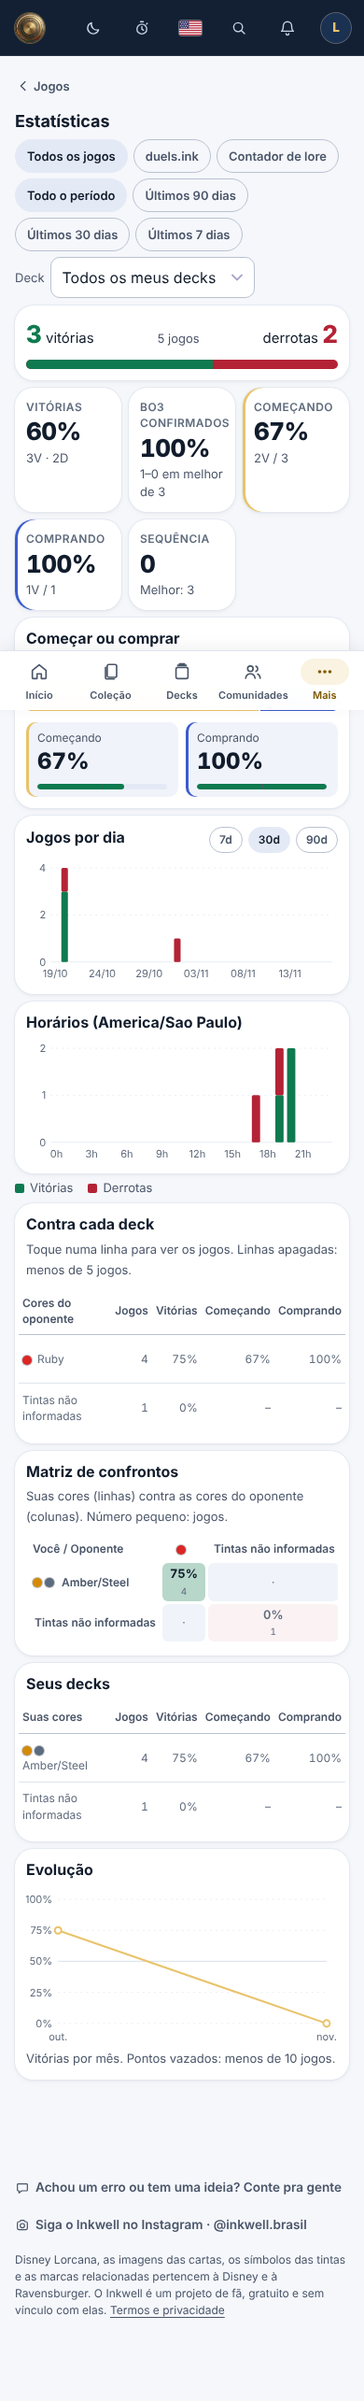
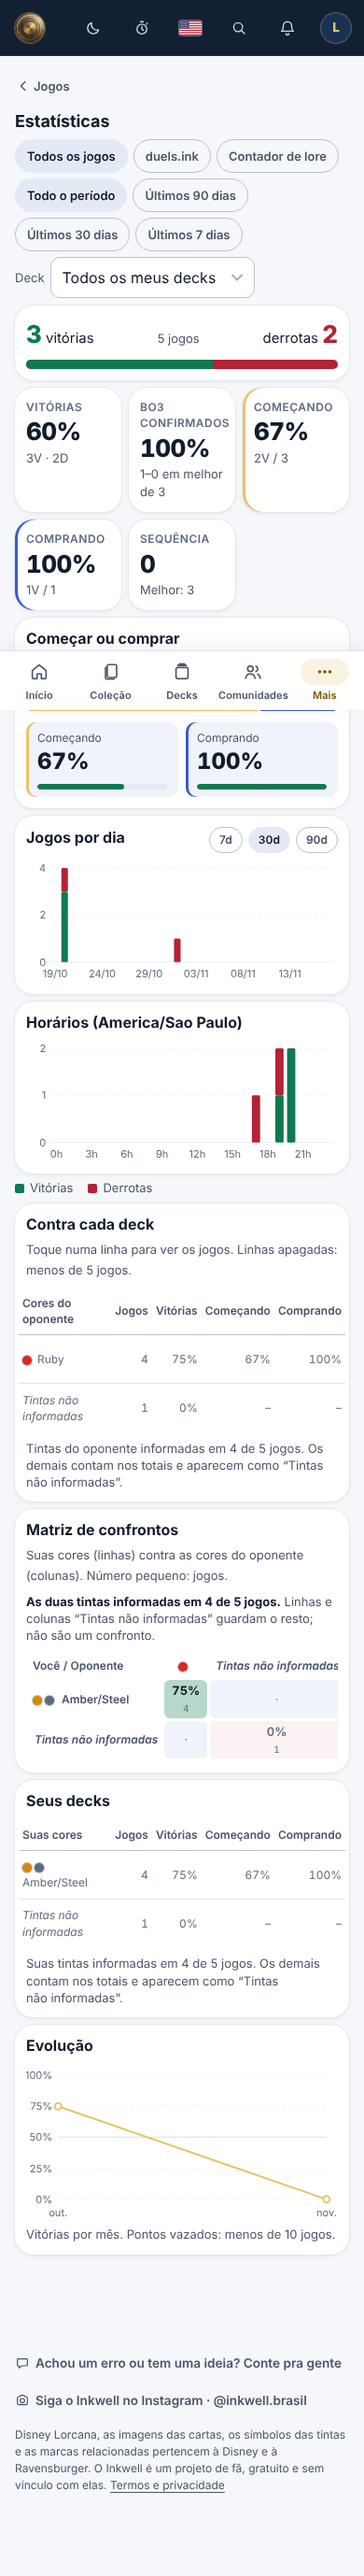
fix(jogos): cobertura explícita nas análises por tintas
Revisão do Conselho (#243): jogos sem tintas continuam em todos os totais, mas cada
análise por combinação de tintas diz quanto cobre:
- Contra cada deck: "Tintas do oponente informadas em X de Y jogos";
- Matriz: "As duas tintas informadas em X de Y jogos" e que as linhas/colunas
  "Tintas não informadas" não são um confronto;
- Seus decks: "Suas tintas informadas em X de Y jogos".
A linha "Tintas não informadas" vem por último, em itálico, separada.

Teste ampliado em coach.spec.mjs; captura refeita.

Claude-Session: https://claude.ai/code/session_01FVbTkUiCCiwGnRgKq7JAgu

diff --git a/site/coach/index.html b/site/coach/index.html
@@ -72,7 +72,9 @@ window.INKWELL_NO_STORE_MSG = "Your games appear here after you sign in.";
     "Gained {v} lore": "Ganhou {v} de lore", "Lost {v} lore": "Perdeu {v} de lore", "Moved {c} to {t}": "Moveu {c} para {t}", "Note: {t}": "Nota: {t}",
     // review
     "All games": "Todos os jogos", "Format": "Formato", "Sealed": "Selado", "Both formats": "Os dois formatos", "Win": "Vitória", "Loss": "Derrota", "Played by {name}": "Jogado por {name}",
-    "Your deck": "Seu deck", "Unknown": "Desconhecido", "Inks not given": "Tintas não informadas", "vs": "vs",
+    "Your deck": "Seu deck", "Unknown": "Desconhecido", "Inks not given": "Tintas não informadas", "Opponent's inks given in {a} of {b} games.": "Tintas do oponente informadas em {a} de {b} jogos.", "Your inks given in {a} of {b} games.": "Suas tintas informadas em {a} de {b} jogos.",
+    "The rest count in the totals and show as “Inks not given”.": "Os demais contam nos totais e aparecem como “Tintas não informadas”.", "Both inks given in {a} of {b} games.": "As duas tintas informadas em {a} de {b} jogos.",
+    "Rows and columns “Inks not given” hold the rest; they are not a matchup.": "Linhas e colunas “Tintas não informadas” guardam o resto; não são um confronto.", "vs": "vs",
     "{n} turns": "{n} turnos", "Lore Counter game, under 2 minutes": "Jogo do Contador de lore, menos de 2 minutos",
     "Lore Counter game, about {m} minutes": "Jogo do Contador de lore, cerca de {m} minutos",
     "Lore Counter game, final lore and result only": "Jogo do Contador de lore, só lore final e resultado",
@@ -847,6 +849,8 @@ window.INKWELL_CLOUD = (() => {
 
 /* account, view, coaches */
 .acct { display: grid; grid-template-columns: minmax(0, 1fr); gap: var(--sp-2); }
+tr.noinks > td:first-child, tr.noinks > th, th.noinks { font-style: italic; color: var(--text-2); }
+table.mt tr.noinks > td { border-top: 1px dashed var(--line-strong); }
 /* Pacote 2: the games and "Novo jogo" come first; duels.ink and coaches are settings, closed, at the end */
 .jg-actions { display: grid; grid-template-columns: minmax(0, 1fr) auto; gap: var(--sp-2); }
 .jg-actions[hidden] { display: none; }
@@ -1614,6 +1618,13 @@ const CARD_INDEX = {"generated_at":"2026-10-19T12:50:22Z","cards":[["D100-18","M
   const noInks = (k) => !k || k === "Unknown" || k === "Physical game";
   const deckLabel = (k) => (noInks(k) ? Tx("Inks not given") : k);
   const dotsOf = (k) => (noInks(k) ? "" : inkDots(k));
+  // Conselho (#243): games without inks stay in every total, but an analysis by ink combination says how much it covers,
+  // and the "Tintas não informadas" line comes last, set apart, so it never reads as one more archetype.
+  const unknownLast = (list) => [...list.filter((x) => !noInks(x.k)), ...list.filter((x) => noInks(x.k))];
+  const coverage = (rows, side, id) => {
+    const known = rows.filter((r) => side === "opp" ? !noInks(r.s.opp_inks || r.s.opp_deck) : !noInks(inksKey(r.s.my_inks) || inksKey(r.s.my_deck))).length;
+    return `<p class="small muted cov" data-testid="${id}" style="margin:var(--sp-2) 0 0">${esc(Tx(side === "opp" ? "Opponent's inks given in {a} of {b} games." : "Your inks given in {a} of {b} games.", { a: known, b: rows.length }))}${known < rows.length ? " " + esc(Tx("The rest count in the totals and show as “Inks not given”.")) : ""}</p>`;
+  };
   // duels.ink best-of-3 matches: only games linked by their match id (a match.json from duels.ink, linkMatch).
   // Nothing is guessed from queues, numbers or times; a match counts once it has a winner (2 games won).
   function matchesOf(rows) {
@@ -1679,8 +1690,9 @@ const CARD_INDEX = {"generated_at":"2026-10-19T12:50:22Z","cards":[["D100-18","M
   }
   function matrixHtml(rows) {
     const mineK = (r) => inksKey(r.s.my_inks) || inksKey(r.s.my_deck) || NO_INKS, oppK = (r) => r.s.opp_inks || r.s.opp_deck || NO_INKS;
-    const mine = groupBy(rows, mineK).slice(0, 6), opp = groupBy(rows, oppK).slice(0, 8);
+    const mine = unknownLast(groupBy(rows, mineK).slice(0, 6)), opp = unknownLast(groupBy(rows, oppK).slice(0, 8));
     if (!mine.length || opp.length < 2) return "";
+    const both = rows.filter((r) => !noInks(mineK(r)) && !noInks(oppK(r))).length;
     const cell = new Map();
     for (const r of rows) { const a = mineK(r); const k = `${a}|${oppK(r)}`; const c = cell.get(k) || { n: 0, w: 0 }; c.n += 1; c.w += r.s.result === "win" ? 1 : 0; cell.set(k, c); }
     const td = (a, b) => {
@@ -1690,8 +1702,9 @@ const CARD_INDEX = {"generated_at":"2026-10-19T12:50:22Z","cards":[["D100-18","M
       return `<td class="${c.n < 3 ? "few" : ""}" style="background:color-mix(in srgb, ${tone} ${c.n < 3 ? 6 : strength}%, transparent)" title="${esc(`${deckLabel(a)} vs ${deckLabel(b)}`)}: ${hint(c.n, c.w)}"><b>${Math.round(100 * wr)}%</b><small>${c.n}</small></td>`;
     };
     return `<div class="sv-card"><h3>${Tx("Matchup matrix")}</h3><span class="muted small">${Tx("Your colors (rows) against the opponent's colors (columns). Small number: games.")}</span>
-      <div class="mx-wrap"><table class="mx"><tr><th>${Tx("You / Opp")}</th>${opp.map((o) => `<th>${noInks(o.k) ? `<span class="nm">${esc(Tx("Inks not given"))}</span>` : `${inkDots(o.k)}<span class="sr">${esc(o.k)}</span>`}</th>`).join("")}</tr>
-      ${mine.map((m) => `<tr><th>${dotsOf(m.k)}<span class="nm">${esc(deckLabel(m.k))}</span></th>${opp.map((o) => td(m.k, o.k)).join("")}</tr>`).join("")}</table></div></div>`;
+      <p class="small cov" data-testid="cov-matrix" style="margin:var(--sp-2) 0 0"><b>${esc(Tx("Both inks given in {a} of {b} games.", { a: both, b: rows.length }))}</b>${both < rows.length ? ` <span class="muted">${esc(Tx("Rows and columns “Inks not given” hold the rest; they are not a matchup."))}</span>` : ""}</p>
+      <div class="mx-wrap"><table class="mx"><tr><th>${Tx("You / Opp")}</th>${opp.map((o) => `<th${noInks(o.k) ? ' class="noinks"' : ""}>${noInks(o.k) ? `<span class="nm">${esc(Tx("Inks not given"))}</span>` : `${inkDots(o.k)}<span class="sr">${esc(o.k)}</span>`}</th>`).join("")}</tr>
+      ${mine.map((m) => `<tr${noInks(m.k) ? ' class="noinks"' : ""}><th>${dotsOf(m.k)}<span class="nm">${esc(deckLabel(m.k))}</span></th>${opp.map((o) => td(m.k, o.k)).join("")}</tr>`).join("")}</table></div></div>`;
   }
   // Deck versions: each distinct list of the chosen deck, oldest = version 1.
   function versionsOf(rows) {
@@ -1749,7 +1762,7 @@ const CARD_INDEX = {"generated_at":"2026-10-19T12:50:22Z","cards":[["D100-18","M
     if (sv.version !== "all" && !vs.some((v) => v.k === sv.version)) sv.version = "all";
     const rows = deckRows.filter((r) => sv.version === "all" || r.s.list_key === sv.version);
     const T = tally(rows.map((r) => r.s)), M = matchesOf(rows), mw = M.filter((m) => m.result === "win").length, st = streaks(rows);
-    const mine = groupBy(rows, (r) => r.s.my_deck), opp = groupBy(rows, (r) => r.s.opp_deck);
+    const mine = unknownLast(groupBy(rows, (r) => r.s.my_deck)), opp = unknownLast(groupBy(rows, (r) => r.s.opp_deck));
     const cost = opp.filter((o) => o.t.n >= 8 && o.t.n - 2 * o.t.w > 0).sort((a, b) => (b.t.n - 2 * b.t.w) - (a.t.n - 2 * a.t.w)).slice(0, 3);
     // MMR: duels.ink keeps one per queue. The chosen queue, or the one with the most rated games.
     const rated = rows.filter((r) => r.s.mmr_before != null && r.s.mmr_delta != null);
@@ -1757,7 +1770,7 @@ const CARD_INDEX = {"generated_at":"2026-10-19T12:50:22Z","cards":[["D100-18","M
     const mmr = rated.filter((r) => (qOf(r.s) || "—") === mq).sort(byAt).map((r) => ({ at: r.at, v: r.s.mmr_before + r.s.mmr_delta }));
     const chip = (group, v, l) => `<button type="button" class="chipbtn" data-sv="${group}" data-v="${esc(v)}" aria-pressed="${String(sv[group]) === String(v)}">${esc(l)}</button>`;
     const sel = (id, label, cur, opts) => `<label class="small svsel">${label} <select id="${id}">${opts.map(([v, l]) => `<option value="${esc(v)}" ${v === cur ? "selected" : ""}>${esc(l)}</option>`).join("")}</select></label>`;
-    const row = (x, isOpp) => `<tr class="${x.t.n < 5 ? "few" : ""}" ${isOpp ? `data-opp="${esc(x.k)}" tabindex="0" aria-label="${esc(Tx("Show games against {deck}", { deck: deckLabel(x.k) }))}"` : ""}>
+    const row = (x, isOpp) => `<tr class="${x.t.n < 5 ? "few" : ""}${noInks(x.k) ? " noinks" : ""}" ${isOpp ? `data-opp="${esc(x.k)}" tabindex="0" aria-label="${esc(Tx("Show games against {deck}", { deck: deckLabel(x.k) }))}"` : ""}>
       <td>${dotsOf(x.k)}${esc(deckLabel(x.k))}</td><td class="n">${x.t.n}</td>
       <td class="n">${pct(x.t.w, x.t.n)}<span class="wbar" aria-hidden="true"><i style="width:${x.t.n ? (100 * x.t.w / x.t.n).toFixed(0) : 0}%"></i></span></td>
       <td class="n">${pct(x.t.fw, x.t.fn)} <span class="muted small">(${x.t.fn})</span></td><td class="n">${pct(x.t.dw, x.t.dn)} <span class="muted small">(${x.t.dn})</span></td></tr>`;
@@ -1806,9 +1819,9 @@ const CARD_INDEX = {"generated_at":"2026-10-19T12:50:22Z","cards":[["D100-18","M
       <div class="legend small muted sv-leg"><span><i style="background:var(--win)"></i>${Tx("Wins")}</span><span><i style="background:var(--loss)"></i>${Tx("Losses")}</span></div>
       ${cost.length ? `<div class="cost ccost"><b>${Tx("Matchups costing you the most")}</b> <span class="muted small">${Tx("(8+ games; games lost beyond an even split)")}</span><ul>${cost.map((o) => `<li>${esc(Tx("vs {deck}: {w}–{l}, {p} won, {d} games below even", { deck: o.k, w: o.t.w, l: o.t.n - o.t.w, p: pct(o.t.w, o.t.n), d: o.t.n - 2 * o.t.w }))}</li>`).join("")}</ul></div>` : ""}
       <div class="sv-card"><h3>${Tx("Against each deck")}</h3><span class="muted small">${Tx("Tap a row to see those games. Faded rows: under 5 games.")}</span>
-        <table class="mt">${head(Tx("Opponent's inks"))}${opp.map((x) => row(x, true)).join("")}</table></div>
+        <table class="mt">${head(Tx("Opponent's inks"))}${opp.map((x) => row(x, true)).join("")}</table>${coverage(rows, "opp", "cov-opp")}</div>
       ${matrixHtml(rows)}
-      ${sv.deck === "all" && mine.length > 1 ? `<div class="sv-card"><h3>${Tx("Your decks")}</h3><table class="mt">${head(Tx("Your inks"))}${mine.map((x) => row(x, false)).join("")}</table></div>` : ""}
+      ${sv.deck === "all" && mine.length > 1 ? `<div class="sv-card"><h3>${Tx("Your decks")}</h3><table class="mt">${head(Tx("Your inks"))}${mine.map((x) => row(x, false)).join("")}</table>${coverage(rows, "mine", "cov-mine")}</div>` : ""}
       ${versionsHtml(vs)}
       <div class="sv-card"><h3>${Tx("Trend")}</h3>${trendSvg(rows) || `<p class="muted small">${Tx("Needs games in at least two months.")}</p>`}</div>`}
     </div>`;

diff --git a/src/site/coach/coach.template.html b/src/site/coach/coach.template.html
@@ -69,7 +69,9 @@ window.INKWELL_NO_STORE_MSG = "Your games appear here after you sign in.";
     "Gained {v} lore": "Ganhou {v} de lore", "Lost {v} lore": "Perdeu {v} de lore", "Moved {c} to {t}": "Moveu {c} para {t}", "Note: {t}": "Nota: {t}",
     // review
     "All games": "Todos os jogos", "Format": "Formato", "Sealed": "Selado", "Both formats": "Os dois formatos", "Win": "Vitória", "Loss": "Derrota", "Played by {name}": "Jogado por {name}",
-    "Your deck": "Seu deck", "Unknown": "Desconhecido", "Inks not given": "Tintas não informadas", "vs": "vs",
+    "Your deck": "Seu deck", "Unknown": "Desconhecido", "Inks not given": "Tintas não informadas", "Opponent's inks given in {a} of {b} games.": "Tintas do oponente informadas em {a} de {b} jogos.", "Your inks given in {a} of {b} games.": "Suas tintas informadas em {a} de {b} jogos.",
+    "The rest count in the totals and show as “Inks not given”.": "Os demais contam nos totais e aparecem como “Tintas não informadas”.", "Both inks given in {a} of {b} games.": "As duas tintas informadas em {a} de {b} jogos.",
+    "Rows and columns “Inks not given” hold the rest; they are not a matchup.": "Linhas e colunas “Tintas não informadas” guardam o resto; não são um confronto.", "vs": "vs",
     "{n} turns": "{n} turnos", "Lore Counter game, under 2 minutes": "Jogo do Contador de lore, menos de 2 minutos",
     "Lore Counter game, about {m} minutes": "Jogo do Contador de lore, cerca de {m} minutos",
     "Lore Counter game, final lore and result only": "Jogo do Contador de lore, só lore final e resultado",
@@ -592,6 +594,8 @@ window.INKWELL_NO_STORE_MSG = "Your games appear here after you sign in.";
 
 /* account, view, coaches */
 .acct { display: grid; grid-template-columns: minmax(0, 1fr); gap: var(--sp-2); }
+tr.noinks > td:first-child, tr.noinks > th, th.noinks { font-style: italic; color: var(--text-2); }
+table.mt tr.noinks > td { border-top: 1px dashed var(--line-strong); }
 /* Pacote 2: the games and "Novo jogo" come first; duels.ink and coaches are settings, closed, at the end */
 .jg-actions { display: grid; grid-template-columns: minmax(0, 1fr) auto; gap: var(--sp-2); }
 .jg-actions[hidden] { display: none; }
@@ -1359,6 +1363,13 @@ const CARD_INDEX = /*@CARD_INDEX@*/;
   const noInks = (k) => !k || k === "Unknown" || k === "Physical game";
   const deckLabel = (k) => (noInks(k) ? Tx("Inks not given") : k);
   const dotsOf = (k) => (noInks(k) ? "" : inkDots(k));
+  // Conselho (#243): games without inks stay in every total, but an analysis by ink combination says how much it covers,
+  // and the "Tintas não informadas" line comes last, set apart, so it never reads as one more archetype.
+  const unknownLast = (list) => [...list.filter((x) => !noInks(x.k)), ...list.filter((x) => noInks(x.k))];
+  const coverage = (rows, side, id) => {
+    const known = rows.filter((r) => side === "opp" ? !noInks(r.s.opp_inks || r.s.opp_deck) : !noInks(inksKey(r.s.my_inks) || inksKey(r.s.my_deck))).length;
+    return `<p class="small muted cov" data-testid="${id}" style="margin:var(--sp-2) 0 0">${esc(Tx(side === "opp" ? "Opponent's inks given in {a} of {b} games." : "Your inks given in {a} of {b} games.", { a: known, b: rows.length }))}${known < rows.length ? " " + esc(Tx("The rest count in the totals and show as “Inks not given”.")) : ""}</p>`;
+  };
   // duels.ink best-of-3 matches: only games linked by their match id (a match.json from duels.ink, linkMatch).
   // Nothing is guessed from queues, numbers or times; a match counts once it has a winner (2 games won).
   function matchesOf(rows) {
@@ -1424,8 +1435,9 @@ const CARD_INDEX = /*@CARD_INDEX@*/;
   }
   function matrixHtml(rows) {
     const mineK = (r) => inksKey(r.s.my_inks) || inksKey(r.s.my_deck) || NO_INKS, oppK = (r) => r.s.opp_inks || r.s.opp_deck || NO_INKS;
-    const mine = groupBy(rows, mineK).slice(0, 6), opp = groupBy(rows, oppK).slice(0, 8);
+    const mine = unknownLast(groupBy(rows, mineK).slice(0, 6)), opp = unknownLast(groupBy(rows, oppK).slice(0, 8));
     if (!mine.length || opp.length < 2) return "";
+    const both = rows.filter((r) => !noInks(mineK(r)) && !noInks(oppK(r))).length;
     const cell = new Map();
     for (const r of rows) { const a = mineK(r); const k = `${a}|${oppK(r)}`; const c = cell.get(k) || { n: 0, w: 0 }; c.n += 1; c.w += r.s.result === "win" ? 1 : 0; cell.set(k, c); }
     const td = (a, b) => {
@@ -1435,8 +1447,9 @@ const CARD_INDEX = /*@CARD_INDEX@*/;
       return `<td class="${c.n < 3 ? "few" : ""}" style="background:color-mix(in srgb, ${tone} ${c.n < 3 ? 6 : strength}%, transparent)" title="${esc(`${deckLabel(a)} vs ${deckLabel(b)}`)}: ${hint(c.n, c.w)}"><b>${Math.round(100 * wr)}%</b><small>${c.n}</small></td>`;
     };
     return `<div class="sv-card"><h3>${Tx("Matchup matrix")}</h3><span class="muted small">${Tx("Your colors (rows) against the opponent's colors (columns). Small number: games.")}</span>
-      <div class="mx-wrap"><table class="mx"><tr><th>${Tx("You / Opp")}</th>${opp.map((o) => `<th>${noInks(o.k) ? `<span class="nm">${esc(Tx("Inks not given"))}</span>` : `${inkDots(o.k)}<span class="sr">${esc(o.k)}</span>`}</th>`).join("")}</tr>
-      ${mine.map((m) => `<tr><th>${dotsOf(m.k)}<span class="nm">${esc(deckLabel(m.k))}</span></th>${opp.map((o) => td(m.k, o.k)).join("")}</tr>`).join("")}</table></div></div>`;
+      <p class="small cov" data-testid="cov-matrix" style="margin:var(--sp-2) 0 0"><b>${esc(Tx("Both inks given in {a} of {b} games.", { a: both, b: rows.length }))}</b>${both < rows.length ? ` <span class="muted">${esc(Tx("Rows and columns “Inks not given” hold the rest; they are not a matchup."))}</span>` : ""}</p>
+      <div class="mx-wrap"><table class="mx"><tr><th>${Tx("You / Opp")}</th>${opp.map((o) => `<th${noInks(o.k) ? ' class="noinks"' : ""}>${noInks(o.k) ? `<span class="nm">${esc(Tx("Inks not given"))}</span>` : `${inkDots(o.k)}<span class="sr">${esc(o.k)}</span>`}</th>`).join("")}</tr>
+      ${mine.map((m) => `<tr${noInks(m.k) ? ' class="noinks"' : ""}><th>${dotsOf(m.k)}<span class="nm">${esc(deckLabel(m.k))}</span></th>${opp.map((o) => td(m.k, o.k)).join("")}</tr>`).join("")}</table></div></div>`;
   }
   // Deck versions: each distinct list of the chosen deck, oldest = version 1.
   function versionsOf(rows) {
@@ -1494,7 +1507,7 @@ const CARD_INDEX = /*@CARD_INDEX@*/;
     if (sv.version !== "all" && !vs.some((v) => v.k === sv.version)) sv.version = "all";
     const rows = deckRows.filter((r) => sv.version === "all" || r.s.list_key === sv.version);
     const T = tally(rows.map((r) => r.s)), M = matchesOf(rows), mw = M.filter((m) => m.result === "win").length, st = streaks(rows);
-    const mine = groupBy(rows, (r) => r.s.my_deck), opp = groupBy(rows, (r) => r.s.opp_deck);
+    const mine = unknownLast(groupBy(rows, (r) => r.s.my_deck)), opp = unknownLast(groupBy(rows, (r) => r.s.opp_deck));
     const cost = opp.filter((o) => o.t.n >= 8 && o.t.n - 2 * o.t.w > 0).sort((a, b) => (b.t.n - 2 * b.t.w) - (a.t.n - 2 * a.t.w)).slice(0, 3);
     // MMR: duels.ink keeps one per queue. The chosen queue, or the one with the most rated games.
     const rated = rows.filter((r) => r.s.mmr_before != null && r.s.mmr_delta != null);
@@ -1502,7 +1515,7 @@ const CARD_INDEX = /*@CARD_INDEX@*/;
     const mmr = rated.filter((r) => (qOf(r.s) || "—") === mq).sort(byAt).map((r) => ({ at: r.at, v: r.s.mmr_before + r.s.mmr_delta }));
     const chip = (group, v, l) => `<button type="button" class="chipbtn" data-sv="${group}" data-v="${esc(v)}" aria-pressed="${String(sv[group]) === String(v)}">${esc(l)}</button>`;
     const sel = (id, label, cur, opts) => `<label class="small svsel">${label} <select id="${id}">${opts.map(([v, l]) => `<option value="${esc(v)}" ${v === cur ? "selected" : ""}>${esc(l)}</option>`).join("")}</select></label>`;
-    const row = (x, isOpp) => `<tr class="${x.t.n < 5 ? "few" : ""}" ${isOpp ? `data-opp="${esc(x.k)}" tabindex="0" aria-label="${esc(Tx("Show games against {deck}", { deck: deckLabel(x.k) }))}"` : ""}>
+    const row = (x, isOpp) => `<tr class="${x.t.n < 5 ? "few" : ""}${noInks(x.k) ? " noinks" : ""}" ${isOpp ? `data-opp="${esc(x.k)}" tabindex="0" aria-label="${esc(Tx("Show games against {deck}", { deck: deckLabel(x.k) }))}"` : ""}>
       <td>${dotsOf(x.k)}${esc(deckLabel(x.k))}</td><td class="n">${x.t.n}</td>
       <td class="n">${pct(x.t.w, x.t.n)}<span class="wbar" aria-hidden="true"><i style="width:${x.t.n ? (100 * x.t.w / x.t.n).toFixed(0) : 0}%"></i></span></td>
       <td class="n">${pct(x.t.fw, x.t.fn)} <span class="muted small">(${x.t.fn})</span></td><td class="n">${pct(x.t.dw, x.t.dn)} <span class="muted small">(${x.t.dn})</span></td></tr>`;
@@ -1551,9 +1564,9 @@ const CARD_INDEX = /*@CARD_INDEX@*/;
       <div class="legend small muted sv-leg"><span><i style="background:var(--win)"></i>${Tx("Wins")}</span><span><i style="background:var(--loss)"></i>${Tx("Losses")}</span></div>
       ${cost.length ? `<div class="cost ccost"><b>${Tx("Matchups costing you the most")}</b> <span class="muted small">${Tx("(8+ games; games lost beyond an even split)")}</span><ul>${cost.map((o) => `<li>${esc(Tx("vs {deck}: {w}–{l}, {p} won, {d} games below even", { deck: o.k, w: o.t.w, l: o.t.n - o.t.w, p: pct(o.t.w, o.t.n), d: o.t.n - 2 * o.t.w }))}</li>`).join("")}</ul></div>` : ""}
       <div class="sv-card"><h3>${Tx("Against each deck")}</h3><span class="muted small">${Tx("Tap a row to see those games. Faded rows: under 5 games.")}</span>
-        <table class="mt">${head(Tx("Opponent's inks"))}${opp.map((x) => row(x, true)).join("")}</table></div>
+        <table class="mt">${head(Tx("Opponent's inks"))}${opp.map((x) => row(x, true)).join("")}</table>${coverage(rows, "opp", "cov-opp")}</div>
       ${matrixHtml(rows)}
-      ${sv.deck === "all" && mine.length > 1 ? `<div class="sv-card"><h3>${Tx("Your decks")}</h3><table class="mt">${head(Tx("Your inks"))}${mine.map((x) => row(x, false)).join("")}</table></div>` : ""}
+      ${sv.deck === "all" && mine.length > 1 ? `<div class="sv-card"><h3>${Tx("Your decks")}</h3><table class="mt">${head(Tx("Your inks"))}${mine.map((x) => row(x, false)).join("")}</table>${coverage(rows, "mine", "cov-mine")}</div>` : ""}
       ${versionsHtml(vs)}
       <div class="sv-card"><h3>${Tx("Trend")}</h3>${trendSvg(rows) || `<p class="muted small">${Tx("Needs games in at least two months.")}</p>`}</div>`}
     </div>`;
